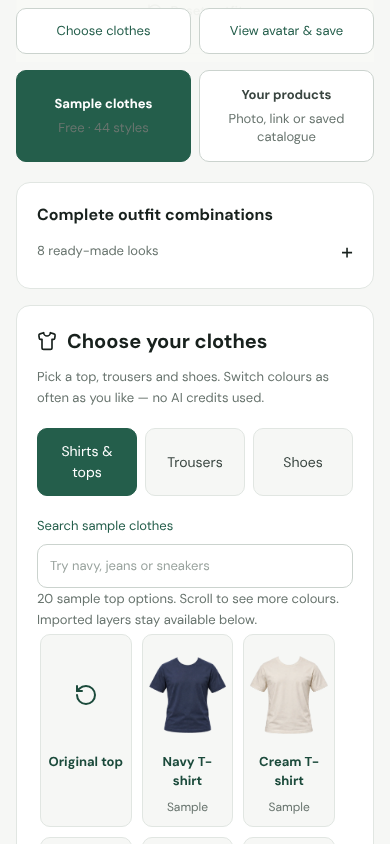
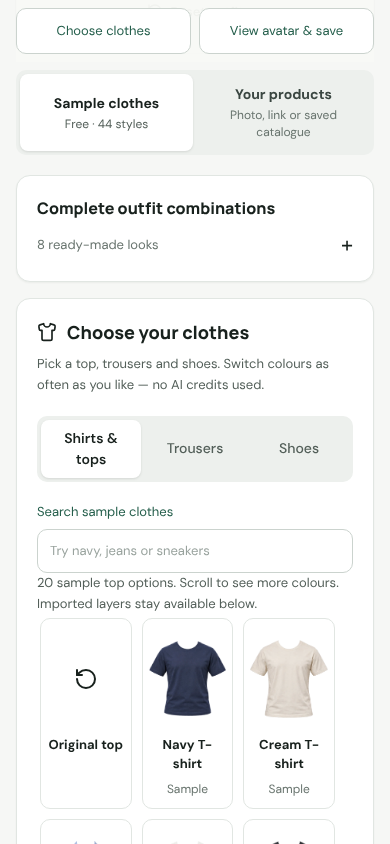
Restyle the fitting room and jewellery studio
Segmented controls for clothing source, category, jewellery view and source;
neutral headings; product tiles with a clear selected state; store-tool pages
(billing-page shell) use the display font and card shadow.

Claude-Session: https://claude.ai/code/session_0168XhMEG81ABQ1Lzv4ywD8x

diff --git a/src/styles.css b/src/styles.css
@@ -1792,18 +1792,18 @@ dialog::backdrop {
   font-size: 13px;
 }
 .outfit-intro {
-  margin: 38px 0 28px;
+  margin: 28px 0 24px;
 }
 .outfit-intro h1 {
-  font-size: clamp(28px, 4vw, 42px);
-  margin: 12px 0;
-  color: var(--brand-800);
-  letter-spacing: -1px;
+  font-size: clamp(26px, 3vw, 32px);
+  margin: 6px 0;
+  color: var(--gray-900);
+  letter-spacing: -0.02em;
 }
 .outfit-intro p,
 .outfit-panel > p {
-  color: var(--gray-500);
-  line-height: 1.65;
+  color: var(--gray-600);
+  line-height: 1.6;
 }
 .outfit-layout {
   display: grid;
@@ -1816,6 +1816,7 @@ dialog::backdrop {
   border: 1px solid var(--gray-200);
   border-radius: var(--radius-lg);
   background: var(--white);
+  box-shadow: var(--shadow-xs);
   overflow: hidden;
 }
 .outfit-preview-card {
@@ -1826,9 +1827,10 @@ dialog::backdrop {
   display: flex;
   justify-content: space-between;
   gap: 8px;
-  padding: 18px;
-  font-size: 13px;
+  padding: 14px 18px;
+  font-size: 14px;
   flex-wrap: wrap;
+  border-bottom: 1px solid var(--gray-200);
 }
 .outfit-preview-title span {
   color: var(--gray-500);
@@ -1869,33 +1871,45 @@ dialog::backdrop {
   padding: 24px;
 }
 .outfit-panel h2 {
-  font-size: 20px;
+  font-family: var(--font-display);
+  font-size: 18px;
+  font-weight: 700;
   display: flex;
   align-items: center;
   gap: 10px;
-  margin: 0 0 10px;
+  margin: 0 0 8px;
+  color: var(--gray-900);
 }
 .outfit-panel > p {
   font-size: 13px;
 }
 .outfit-tabs {
   display: flex;
-  gap: 8px;
+  gap: 4px;
+  padding: 4px;
   margin: 20px 0;
+  background: var(--gray-100);
+  border-radius: var(--radius-md);
 }
 .outfit-tabs button {
   flex: 1;
-  padding: 12px;
-  border: 1px solid var(--gray-200);
-  border-radius: var(--radius-md);
-  background: var(--gray-50);
-  color: var(--gray-700);
+  min-height: var(--control-height);
+  padding: 8px 12px;
+  border: 0;
+  border-radius: var(--radius-sm);
+  background: transparent;
+  color: var(--gray-600);
+  font-weight: 500;
   cursor: pointer;
+  transition:
+    background 0.15s,
+    color 0.15s;
 }
 .outfit-tabs button[aria-pressed="true"] {
-  background: var(--brand-700);
-  color: var(--white);
-  border-color: var(--brand-700);
+  background: var(--white);
+  color: var(--gray-900);
+  font-weight: 600;
+  box-shadow: var(--shadow-sm);
 }
 .garment-grid {
   display: grid;
@@ -1907,19 +1921,29 @@ dialog::backdrop {
   min-width: 0;
   border: 1px solid var(--gray-200);
   border-radius: var(--radius-md);
-  background: var(--gray-50);
+  background: var(--white);
   padding: 10px 6px;
   display: flex;
   align-items: center;
   flex-direction: column;
-  gap: 7px;
+  gap: 6px;
   cursor: pointer;
-  color: var(--brand-800);
+  color: var(--gray-900);
+  transition:
+    border-color 0.15s,
+    box-shadow 0.15s;
+}
+.garment-tile:not([aria-pressed="true"]):hover {
+  border-color: var(--gray-300);
+  box-shadow: var(--shadow-sm);
+}
+.jewellery-studio h3 {
+  text-transform: none;
 }
 .garment-tile[aria-pressed="true"] {
-  border: 2px solid var(--brand-700);
+  border: 2px solid var(--brand-600);
   padding: 9px 5px;
-  background: var(--gray-100);
+  background: var(--brand-50);
 }
 .garment-tile img,
 .garment-original {
@@ -2376,36 +2400,44 @@ dialog::backdrop {
 .fitting-source {
   display: grid;
   grid-template-columns: repeat(2, minmax(0, 1fr));
-  gap: 8px;
+  gap: 4px;
+  padding: 4px;
+  background: var(--gray-100);
+  border-radius: var(--radius-md);
 }
 .fitting-source button {
   display: flex;
   flex-direction: column;
   justify-content: center;
-  gap: 6px;
-  padding: 14px 12px;
-  border: 1px solid var(--gray-300);
-  border-radius: var(--radius-md);
-  background: var(--white);
+  gap: 2px;
+  padding: 10px 12px;
+  border: 0;
+  border-radius: var(--radius-sm);
+  background: transparent;
   color: var(--gray-700);
   min-width: 0;
-  min-height: 52px;
+  min-height: 48px;
   cursor: pointer;
   font: inherit;
-  font-size: 13px;
+  font-size: 14px;
+  font-weight: 600;
+  transition:
+    background 0.15s,
+    color 0.15s;
 }
 .fitting-source button span {
-  font-size: 13px;
+  font-size: 12px;
+  font-weight: 400;
   line-height: 1.4;
   color: var(--gray-500);
 }
 .fitting-source button[aria-pressed="true"] {
-  background: var(--brand-700);
-  color: var(--white);
-  border-color: var(--brand-700);
+  background: var(--white);
+  color: var(--gray-900);
+  box-shadow: var(--shadow-sm);
 }
 .fitting-source button[aria-pressed="true"] span {
-  color: var(--gray-500);
+  color: var(--gray-600);
 }
 .fitting-source-panel {
   display: grid;
@@ -2416,7 +2448,7 @@ dialog::backdrop {
   margin: 24px 0;
 }
 .outfit-intro h1 {
-  font-size: clamp(28px, 4vw, 36px);
+  font-size: clamp(26px, 3vw, 32px);
 }
 .outfit-preview {
   height: min(48vh, 500px);
@@ -2914,15 +2946,20 @@ dialog::backdrop {
   max-width: 1000px;
   margin: 0 auto;
   padding: 28px 20px 60px;
-  color: var(--brand-800);
+  color: var(--gray-900);
 }
 .billing-page h1 {
-  margin: 24px 0;
-  font-size: 34px;
+  margin: 20px 0 8px;
+  font-family: var(--font-display);
+  font-size: clamp(26px, 3vw, 32px);
+  font-weight: 700;
+  letter-spacing: -0.02em;
 }
 .billing-page h2 {
-  margin: 20px 0 14px;
-  font-size: 22px;
+  margin: 20px 0 12px;
+  font-family: var(--font-display);
+  font-size: 19px;
+  font-weight: 700;
 }
 .billing-page h3 {
   text-transform: capitalize;
@@ -2935,7 +2972,8 @@ dialog::backdrop {
   background: var(--white);
   border: 1px solid var(--gray-200);
   border-radius: var(--radius-lg);
-  padding: 22px;
+  box-shadow: var(--shadow-xs);
+  padding: 24px;
   margin: 20px 0;
 }
 .billing-page p {
@@ -3782,9 +3820,6 @@ dialog::backdrop {
 }
 .jewellery-studio > h1 {
   max-width: 750px;
-  font-size: clamp(30px, 4vw, 46px);
-  line-height: 1.15;
-  letter-spacing: -1.2px;
 }
 .jewellery-studio nav {
   flex-wrap: wrap;
